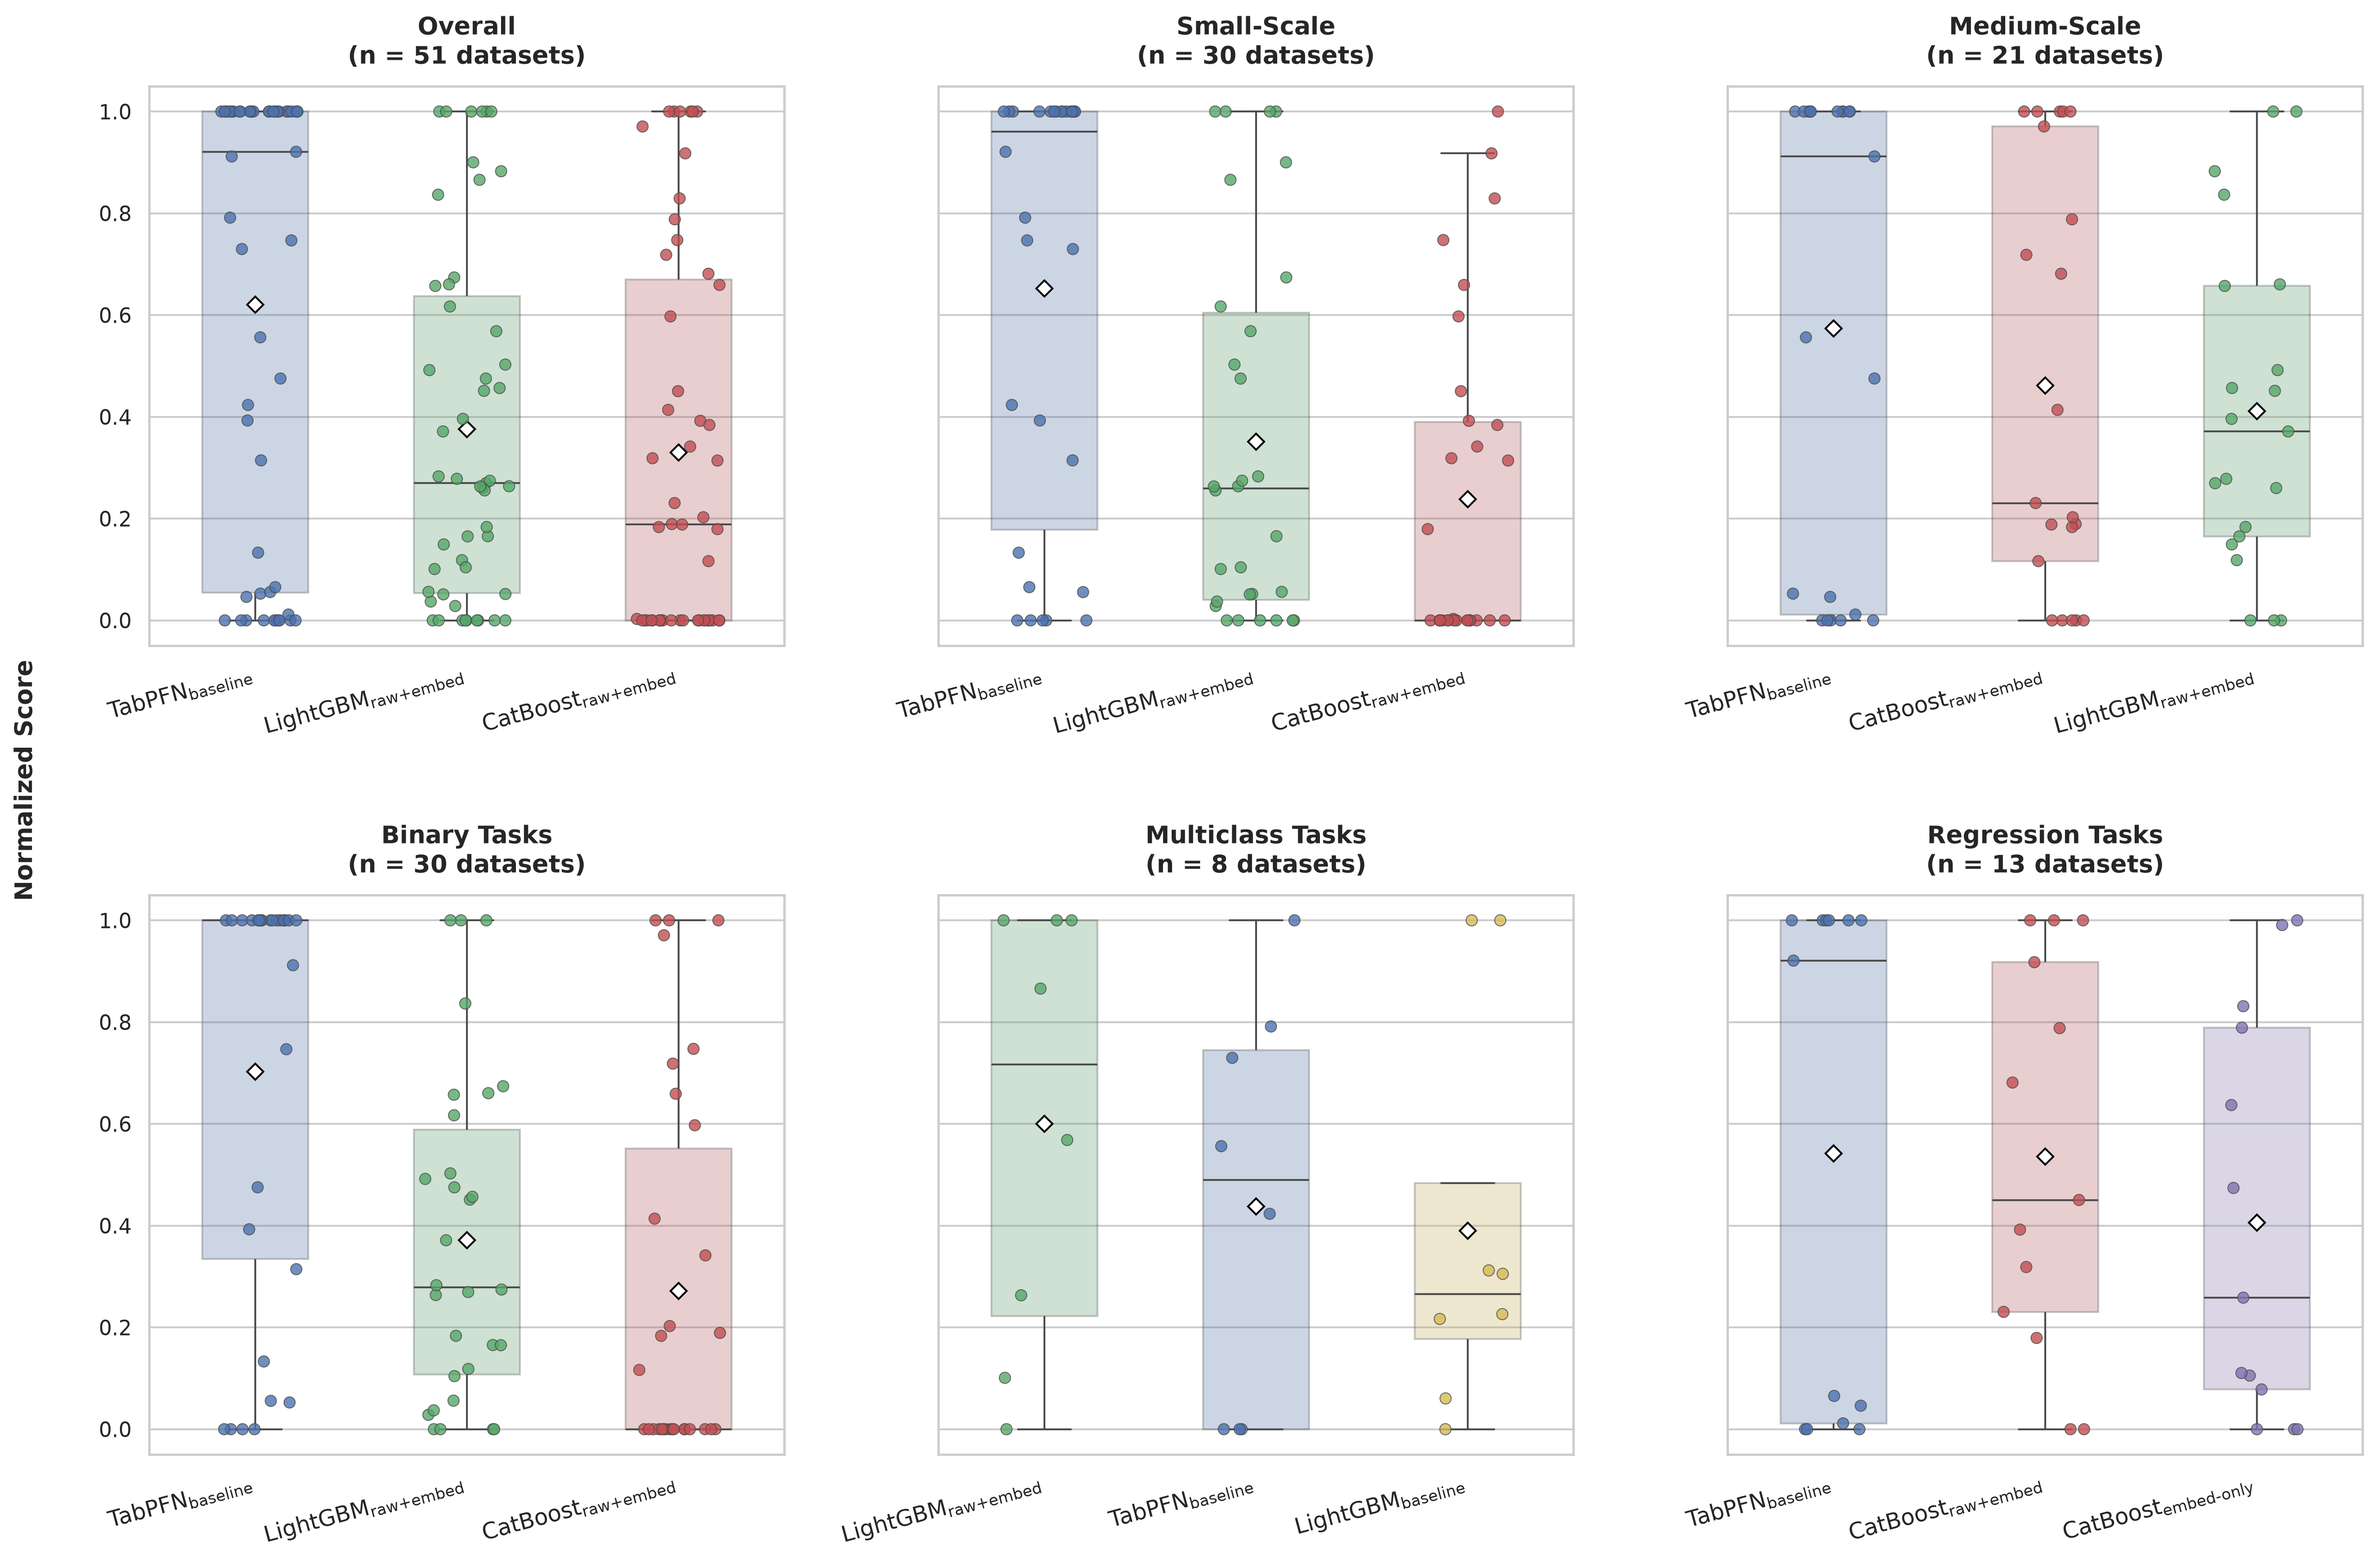
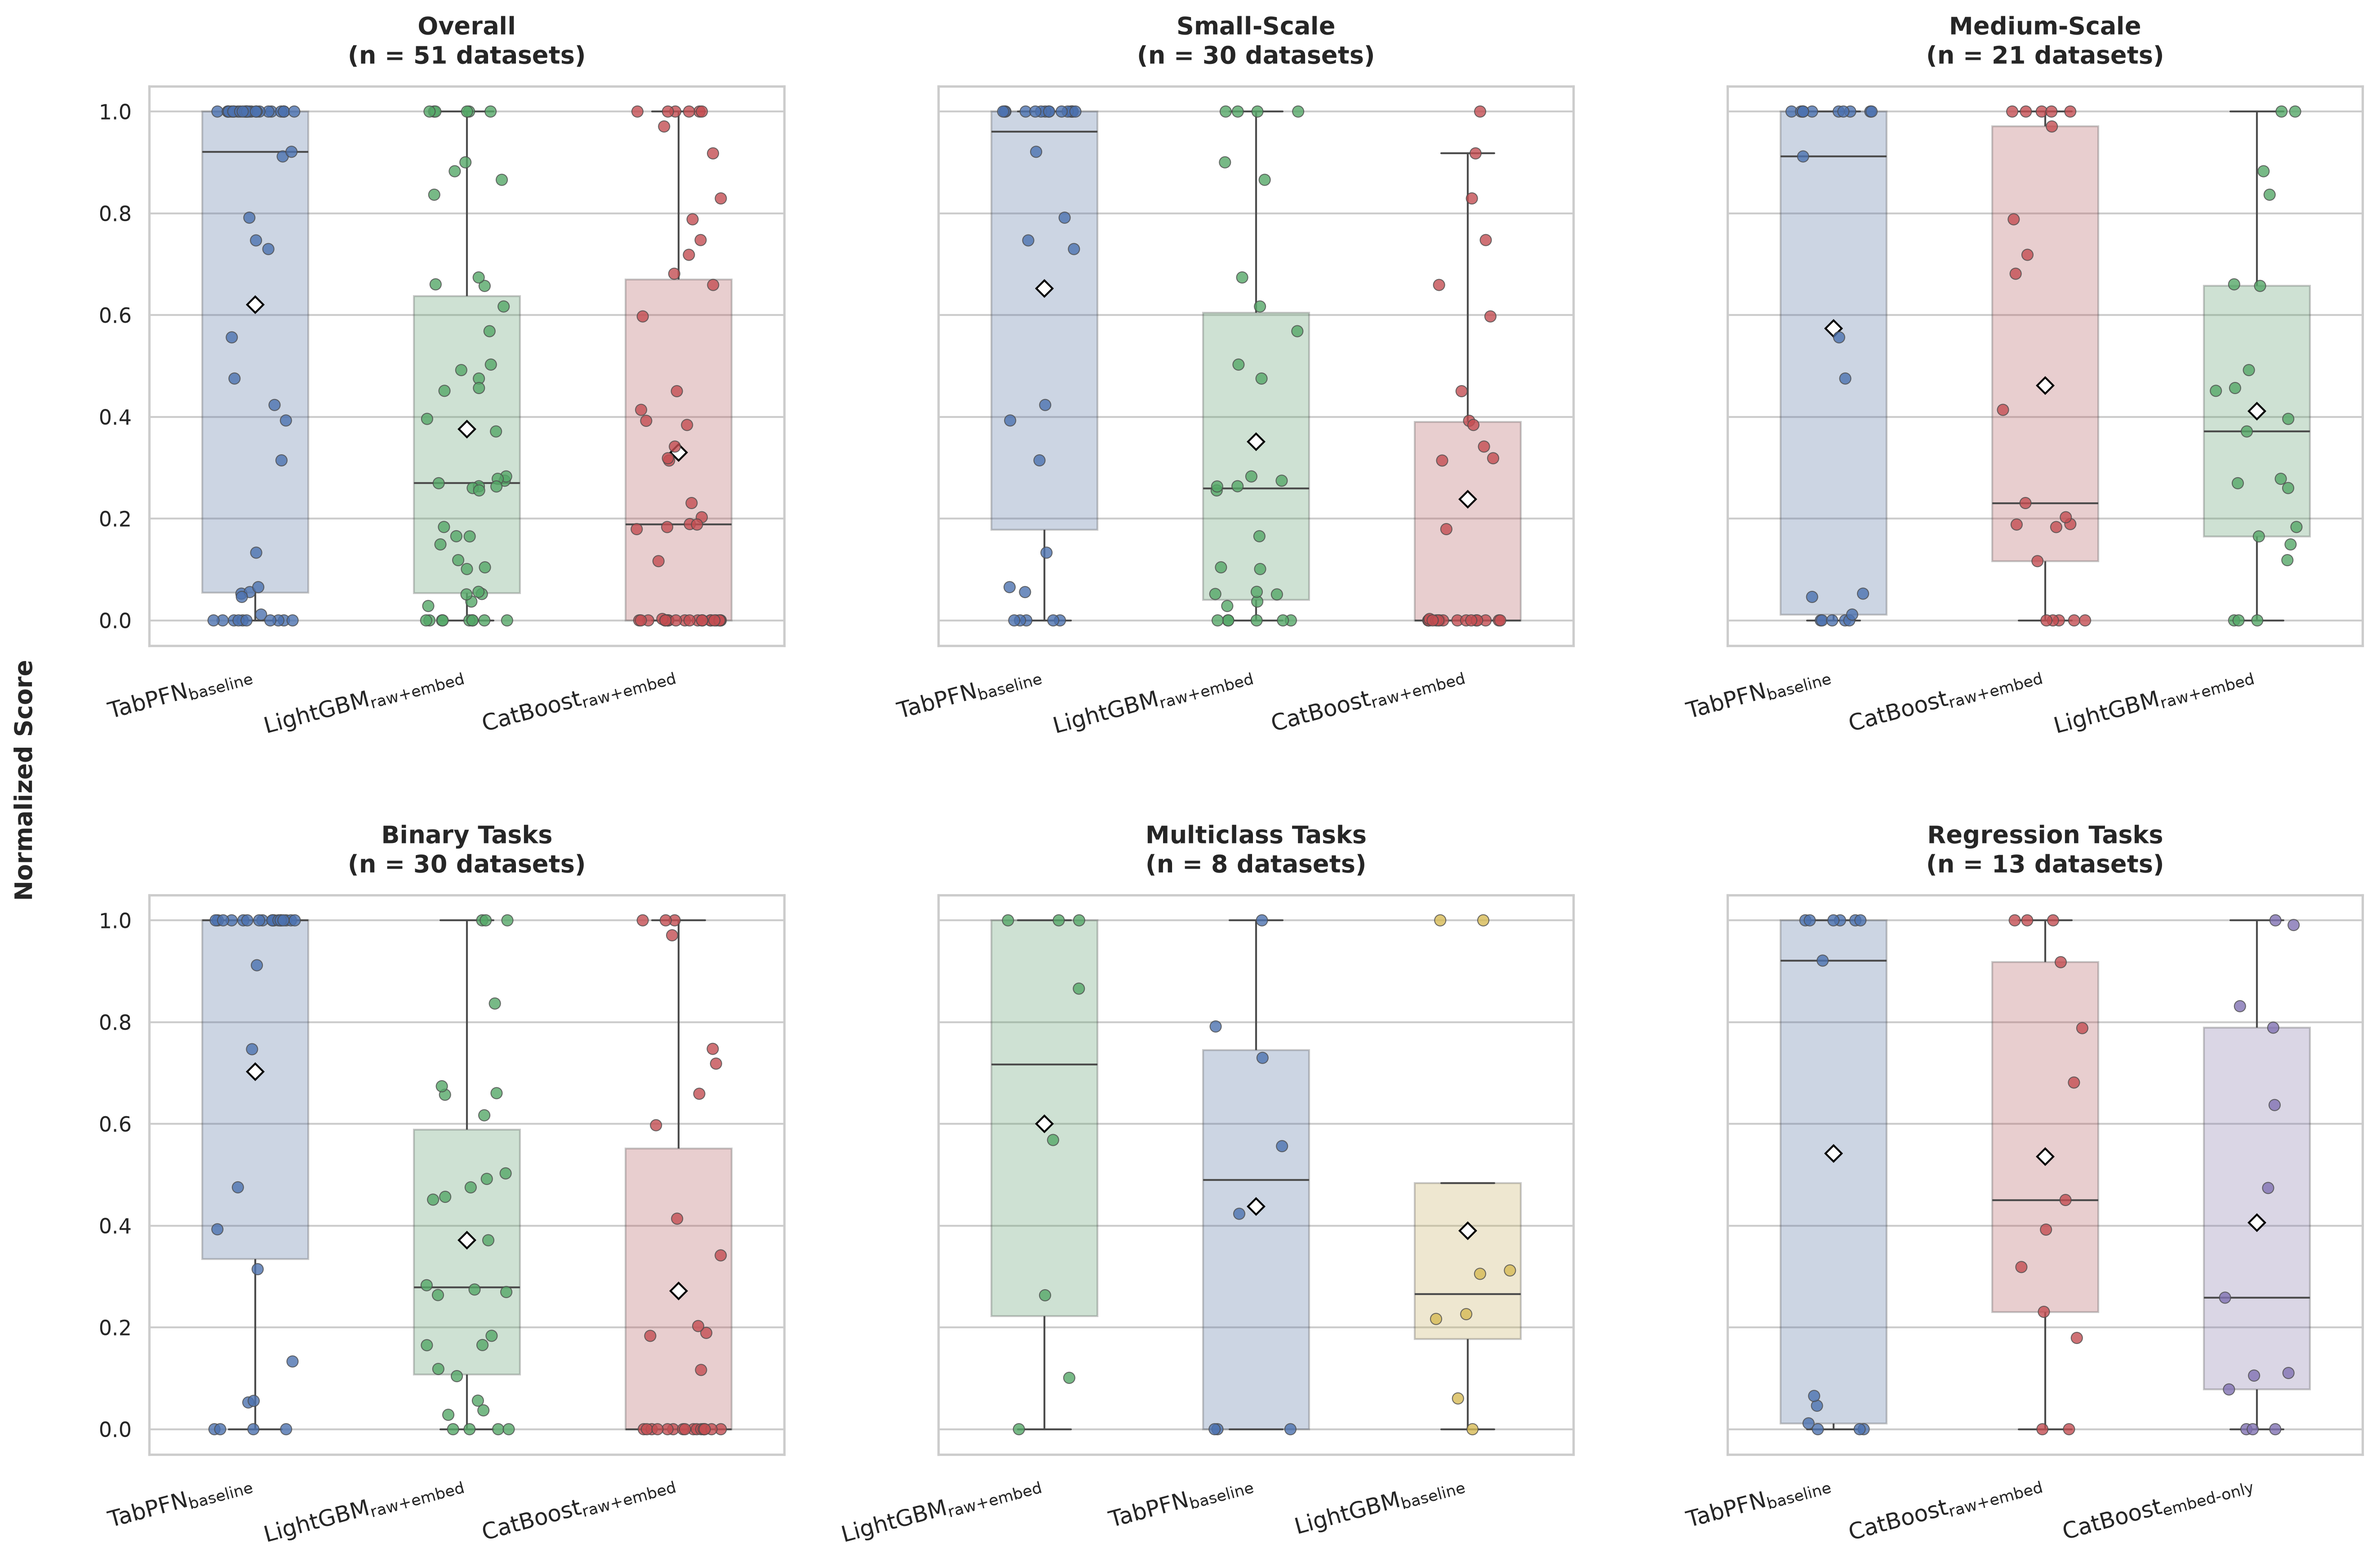
fix variants' boxplots

diff --git a/reporting/plot_norm_scores_variants.py b/reporting/plot_norm_scores_variants.py
@@ -24,9 +24,6 @@ except NameError:
 INPUT_CSV = SCRIPT_DIR / "summary_matrix_refactored.csv"
 OUTPUT_PLOT = SCRIPT_DIR / "outputs" / "norm_scores_boxplot_variants.png"
 
-# Metrics where a lower value indicates better performance (Error metrics)
-LOWER_IS_BETTER = ["1-auroc", "log_loss", "rmse", "mae", "mse", "error"]
-
 # Map internal variant names to formal LaTeX names for the chart labels
 LABEL_MAP = {
     "baseline_tabpfn": r"$\text{TabPFN}_{\text{baseline}}$",
@@ -136,21 +133,25 @@ def main():
     dataset_scores = []
 
     for (dataset, metric), sub_df in df.groupby(["dataset", "primary_metric"]):
-        is_lower = str(metric).lower() in LOWER_IS_BETTER
         task = sub_df["Task Type"].iloc[0]
         scale = sub_df["Scale"].iloc[0]
 
         raw_vals = sub_df["eval_primary_value"]
 
         # Calculate Topline (Best) and Baseline (Median) across all 10 models
-        topline = raw_vals.min() if is_lower else raw_vals.max()
+        # Topline is always the minimum since all metrics are minimized
+        topline = raw_vals.min()
         baseline = raw_vals.median()
-        denominator = max(abs(baseline - topline), 1e-5)
 
-        if is_lower:
-            sub_df["Norm_Score"] = ((baseline - raw_vals) / denominator).clip(0.0, 1.0)
+        # Leaderboard Tie-Breaker Logic
+        if topline == baseline:
+            scores = pd.Series(0.0, index=raw_vals.index)
+            scores[raw_vals == topline] = 1.0
         else:
-            sub_df["Norm_Score"] = ((raw_vals - baseline) / denominator).clip(0.0, 1.0)
+            scores = (baseline - raw_vals) / (baseline - topline)
+            scores = scores.clip(0.0, 1.0)
+
+        sub_df["Norm_Score"] = scores
 
         # Collect scores for all available variants on this dataset
         for _, row in sub_df.iterrows():
